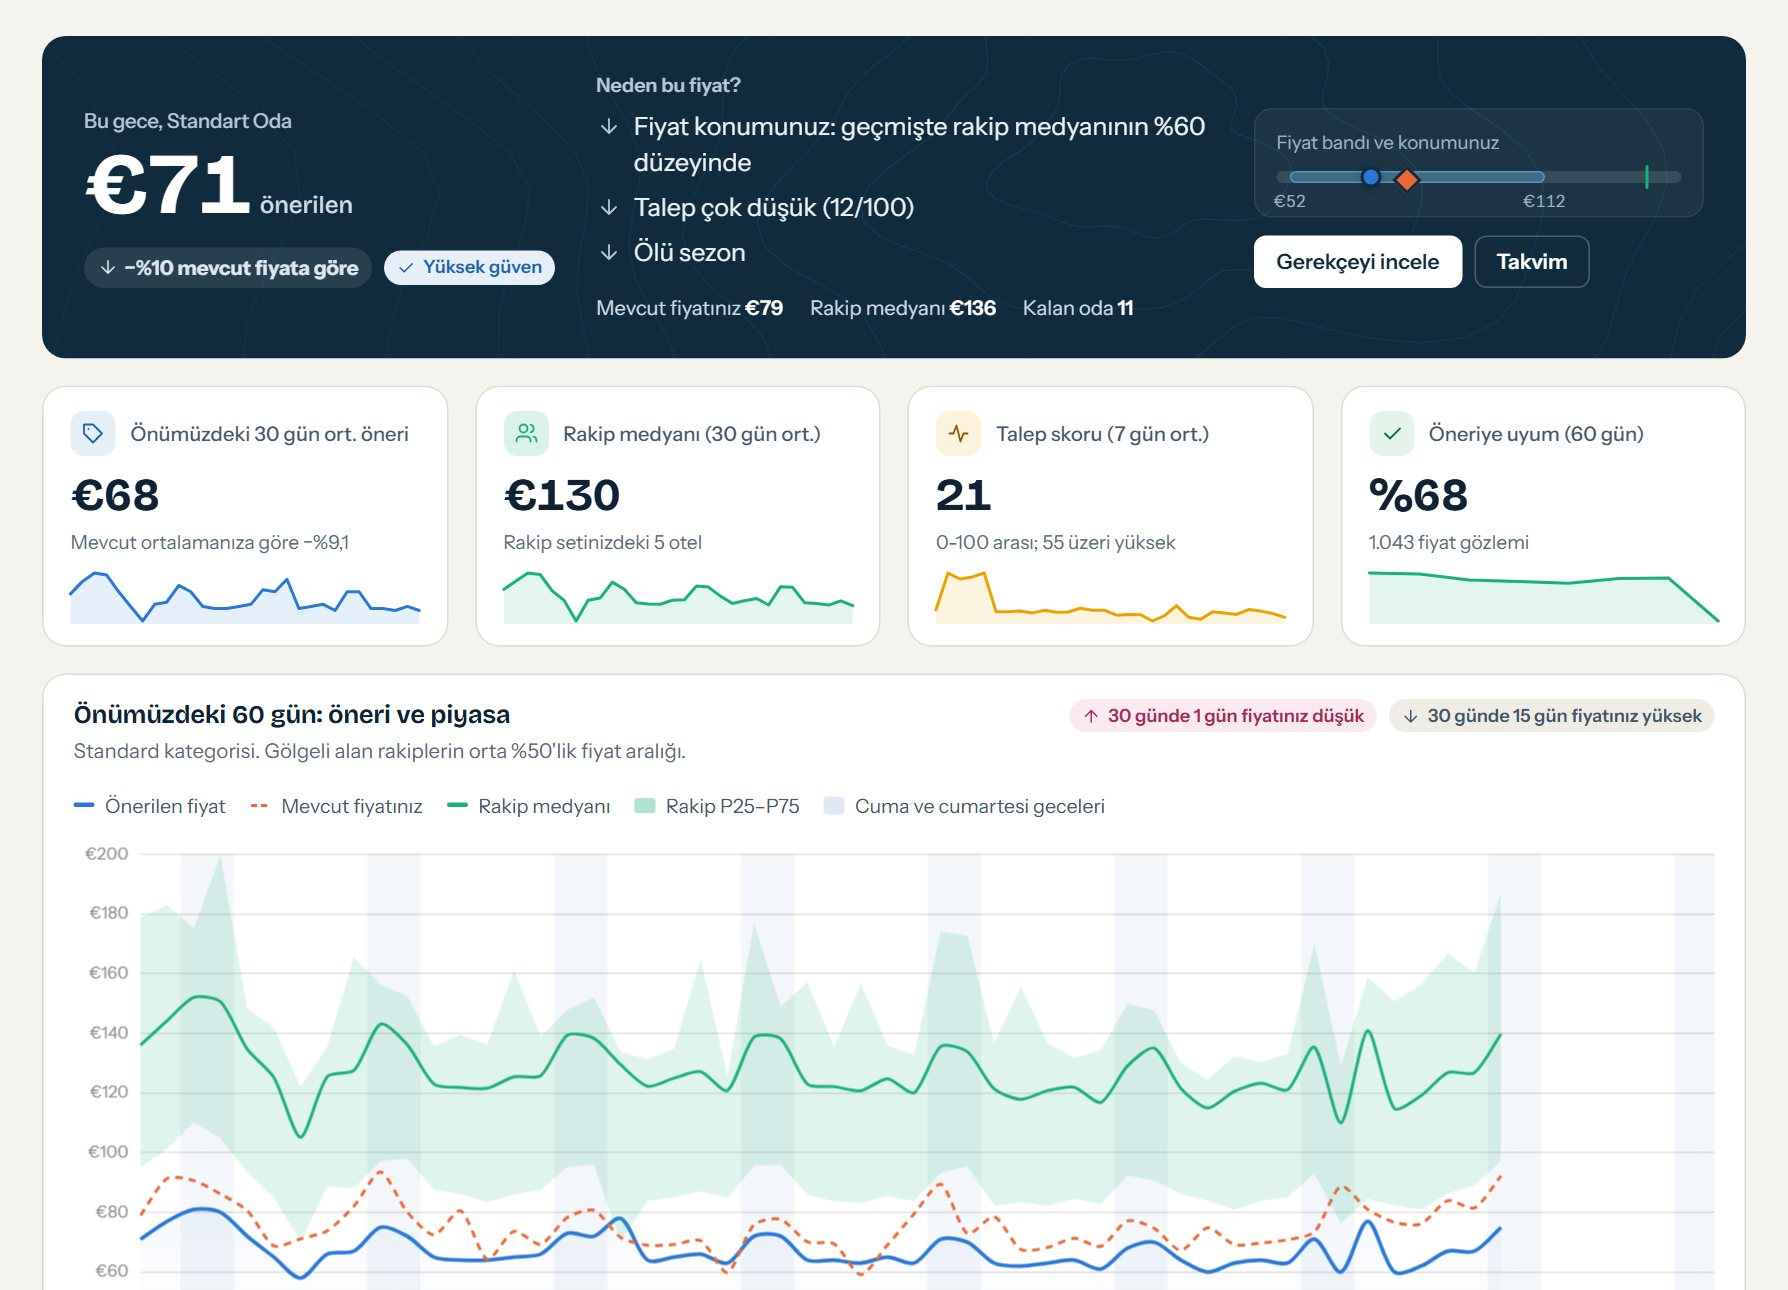
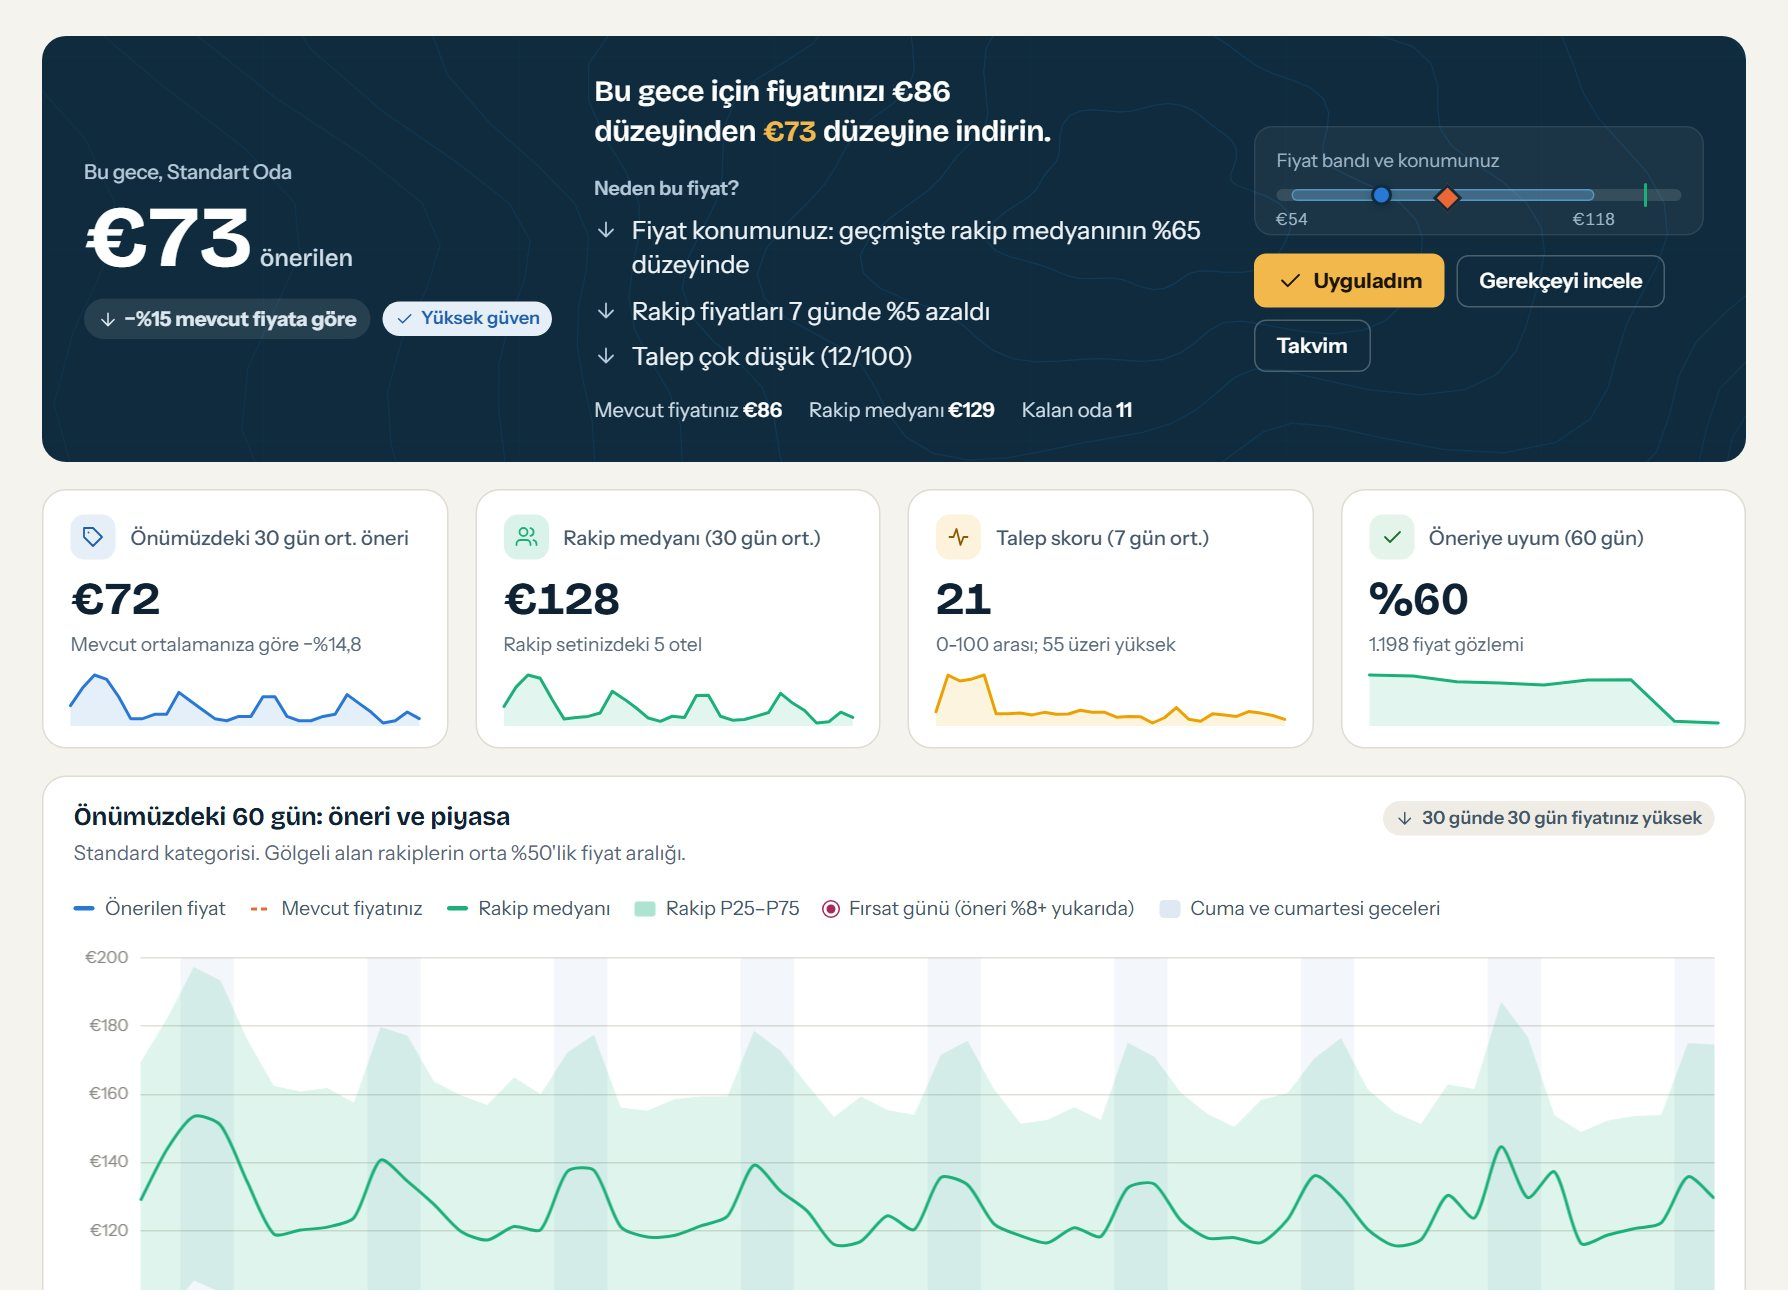
ui(panel): net eylem cümlesi, fırsat günleri, eşik çizgileri, sayfa geçişleri
- Kahraman alan artık önce ne yapılacağını söylüyor (fiyatı indirin /
  yükseltin / koruyun) ve Uyguladım düğmesi orada.
- Fiyat grafiğinde fırsat günleri begonvil noktayla, talep grafiklerinde
  'yüksek talep' eşiği çizgiyle işaretli.
- Sayfalar arası yumuşak geçiş (View Transitions): menü yerinde kalır,
  etkin öğe yeni yerine kayar; şelale ve çubuklar sırayla uzar.
- Yeni E2E testleri: sade/ayrıntılı görünüm ve tanıtım formu akışı.

diff --git a/app/templates/hotel/dashboard.html b/app/templates/hotel/dashboard.html
@@ -21,6 +21,9 @@
     </div>
   </div>
   <div>
+    {% if t.own and t.change is not none %}
+    <p class="hero-do">{% if t.change <= -2 %}Bu gece için fiyatınızı {{ t.own|eur }} düzeyinden <b>{{ t.suggested|eur }}</b> düzeyine indirin.{% elif t.change >= 2 %}Bu gece için fiyatınızı {{ t.own|eur }} düzeyinden <b>{{ t.suggested|eur }}</b> düzeyine yükseltin.{% else %}Fiyatınız yerinde. Bu gece için <b>{{ t.own|eur }}</b> düzeyini koruyun.{% endif %}</p>
+    {% endif %}
     <p class="why-lead">Neden bu fiyat?</p>
     <ul class="drivers">{% for d in rationale_drivers(t.rationale) %}<li class="{{ d.dir }}">{{ ui.icon({'up': 'up', 'down': 'down'}.get(d.dir, 'activity')) }}<span>{{ d.text }}</span></li>{% endfor %}</ul>
     <div class="meta">
@@ -34,7 +37,7 @@
       <div class="lbl"><span>Fiyat bandı ve konumunuz</span></div>
       {{ ui.range_bar(t.floor, t.ceiling, t.suggested, t.own, t.median) }}
     </div>
-    <div class="hero-actions"><a class="btn" href="/panel/oneriler/{{ t.id }}">Gerekçeyi incele</a><a class="btn ghost-light" href="/panel/oneriler?gorunum=takvim">Takvim</a></div>
+    <div class="hero-actions">{% if t.action == 'applied' %}<span class="badge good">{{ ui.icon('check') }}Uygulandı</span>{% else %}<form method="post" action="/panel/oneriler/{{ t.id }}/aksiyon" class="inline">{{ ui.csrf() }}<input type="hidden" name="action" value="applied"><input type="hidden" name="next" value="/panel"><button class="btn apply" type="submit" title="Fiyatı kendi sistemimde uyguladım">{{ ui.icon('check') }}Uyguladım</button></form>{% endif %}<a class="btn ghost-light" href="/panel/oneriler/{{ t.id }}">Gerekçeyi incele</a><a class="btn ghost-light" href="/panel/oneriler?gorunum=takvim">Takvim</a></div>
   </div>
 </section>
 {% else %}
@@ -67,6 +70,7 @@
       <span style="color:var(--series-2)"><i class="dash" style="background:var(--series-2)"></i><span class="ink-2">Mevcut fiyatınız</span></span>
       <span><i style="background:var(--series-3)"></i>Rakip medyanı</span>
       <span><i class="band" style="background:var(--series-3)"></i>Rakip P25–P75</span>
+      <span><i class="lg-opp"></i>Fırsat günü (öneri %8+ yukarıda)</span>
       <span class="wk"><i></i>Cuma ve cumartesi geceleri</span>
     </div>
     {{ ui.chart("price", data.chart | combine({"suggestedFill": true}), "dash-price", "tall", "Önerilen fiyat, mevcut fiyat ve rakip medyanı") }}
@@ -98,7 +102,7 @@
   </div>
     <div class="panel detail-only">
       <div class="panel-head"><div><h2>Talep, 60 gün</h2><p>Uçuş arama, etkinlik ve tatil bileşimi</p></div></div>
-      <div class="panel-body">{{ ui.chart("bar", {"labels": data.chart.labels, "unit": "score", "sequential": true, "max": 100, "series": [{"label": "Talep skoru", "data": data.chart.demand}]}, "dash-demand", "short", "Talep skoru") }}</div>
+      <div class="panel-body">{{ ui.chart("bar", {"labels": data.chart.labels, "unit": "score", "sequential": true, "max": 100, "threshold": {"value": 55, "label": "Yüksek talep eşiği (55)"}, "series": [{"label": "Talep skoru", "data": data.chart.demand}]}, "dash-demand", "short", "Talep skoru") }}</div>
     </div>
   </div>
   <div class="stack">

diff --git a/app/static/css/app.css b/app/static/css/app.css
@@ -868,3 +868,34 @@ body[data-view="sade"] .simple-wide { grid-template-columns: minmax(0, 1fr); }
 :root[data-theme="dark"] .error-page .code { color: var(--brand); }
 .hero-rec .why-full { font-size: .86rem; color: #b4c8d8; line-height: 1.5; margin: 12px 0 0; max-width: 70ch; }
 .table-wrap { position: relative; } /* içindeki .sr-only öğeler sayfayı taşırmasın */
+
+/* kahraman: ne yapmalıyım? tek cümle, sonra neden */
+.hero-rec .hero-do { font: 600 1.22rem/1.35 var(--font-display); color: #fff; margin: 0 0 16px; letter-spacing: -.01em; max-width: 34ch; text-wrap: balance; }
+.hero-rec .hero-do b { color: var(--sun); font-weight: 700; }
+.hero-rec .hero-actions { flex-wrap: wrap; align-items: center; }
+.hero-rec .btn.apply { background: var(--sun); border-color: var(--sun); color: #1b1505; font-weight: 700; }
+.hero-rec .btn.apply:hover { background: #ffd070; border-color: #ffd070; color: #1b1505; }
+.legend i.lg-opp { width: 10px; height: 10px; border-radius: 50%; background: var(--bougain); border: 2px solid var(--surface); box-shadow: 0 0 0 1px var(--bougain); }
+
+/* sayfalar arası geçiş: içerik yumuşakça değişir, menü yerinde kalır, etkin öğe yeni yerine kayar */
+@media (prefers-reduced-motion: no-preference) {
+  @view-transition { navigation: auto; }
+  ::view-transition-old(root), ::view-transition-new(root) { animation-duration: .2s; animation-timing-function: ease-out; }
+  .sidebar { view-transition-name: or-sidebar; }
+  .nav a.active { view-transition-name: or-nav-active; }
+  ::view-transition-group(or-nav-active) { animation-duration: .32s; animation-timing-function: cubic-bezier(.22, 1, .36, 1); }
+  ::view-transition-old(or-sidebar), ::view-transition-new(or-sidebar) { animation: none; }
+  /* şelale: adımlar sırayla uzar (fiyatın nasıl oluştuğunu anlatır) */
+  .js-motion .waterfall .seg-bar { animation: wf-grow .7s cubic-bezier(.16, 1, .3, 1) both; transform-origin: left; }
+  .js-motion .waterfall .step:nth-child(2) .seg-bar { animation-delay: .08s; } .js-motion .waterfall .step:nth-child(3) .seg-bar { animation-delay: .16s; }
+  .js-motion .waterfall .step:nth-child(4) .seg-bar { animation-delay: .24s; } .js-motion .waterfall .step:nth-child(5) .seg-bar { animation-delay: .32s; }
+  .js-motion .waterfall .step:nth-child(n+6) .seg-bar { animation-delay: .4s; }
+  @keyframes wf-grow { from { transform: scaleX(0); opacity: .3; } }
+  .js-motion .bar-fill { animation: wf-grow .8s cubic-bezier(.16, 1, .3, 1) both; transform-origin: left; }
+}
+.heat-grid .c:not(.blank), .cal .day:not(.blank) { transition: transform .12s, box-shadow .12s; }
+.heat-grid .c:not(.blank):hover { transform: scale(1.18); box-shadow: 0 4px 10px rgba(15, 34, 51, .25); z-index: 1; }
+.cal .day:not(.blank):hover { transform: translateY(-2px); box-shadow: 0 8px 18px -8px rgba(15, 34, 51, .35); }
+table.data tbody tr { transition: background .12s; }
+.nav a .ico { transition: transform .2s cubic-bezier(.22, 1, .36, 1); }
+.nav a:hover .ico { transform: translateX(2px); }

diff --git a/app/static/js/charts.js b/app/static/js/charts.js
@@ -97,6 +97,12 @@
           fill: d.suggestedFill ? "origin" : false,
           backgroundColor: function (c) { return vgrad(c.chart, s1, .18, 0); } }
       ];
+      // Fırsat günleri: önerinin mevcut fiyatın %8+ üstünde olduğu geceler çizgi üzerinde begonvil noktayla işaretlenir
+      var opp = (d.suggested || []).map(function (v, i) { var own = d.own ? d.own[i] : null; return v != null && own ? (v / own - 1) >= 0.08 : false; });
+      var sugDs = ds[4], bg = css("--bougain") || s1;
+      sugDs.pointRadius = opp.map(function (b) { return b ? 4.5 : 0; });
+      sugDs.pointBackgroundColor = opp.map(function (b) { return b ? bg : s1; });
+      sugDs.pointBorderColor = css("--surface"); sugDs.pointBorderWidth = 2;
       if (d.floor && d.showBounds) {
         ds.push({ label: "Taban", data: d.floor, borderColor: alpha(s1, .45), borderWidth: 1, pointRadius: 0, borderDash: [2, 3] });
         ds.push({ label: "Tavan", data: d.ceiling, borderColor: alpha(s1, .45), borderWidth: 1, pointRadius: 0, borderDash: [2, 3] });
@@ -197,6 +203,19 @@
     afterDatasetsDraw: function (chart, args, opts) {
       var ctx = chart.ctx, area = chart.chartArea, x = chart.scales.x;
       if (!area || !x) return;
+      // Eşik çizgisi (ör. "yüksek talep" 55): değerin ne anlama geldiğini grafiğin üstünde söyler
+      if (opts && opts.threshold && chart.scales.y && chart.options.indexAxis !== "y") {
+        var ty = chart.scales.y.getPixelForValue(opts.threshold.value);
+        if (ty >= area.top && ty <= area.bottom) {
+          ctx.save();
+          ctx.strokeStyle = css("--ink-2"); ctx.globalAlpha = .7; ctx.lineWidth = 1; ctx.setLineDash([4, 4]);
+          ctx.beginPath(); ctx.moveTo(area.left, ty); ctx.lineTo(area.right, ty); ctx.stroke();
+          ctx.setLineDash([]); ctx.globalAlpha = 1; ctx.fillStyle = css("--ink-2");
+          ctx.font = "600 11px " + (css("--font-ui") || "sans-serif"); ctx.textAlign = "right";
+          ctx.fillText(opts.threshold.label, area.right - 4, ty - 5);
+          ctx.restore();
+        }
+      }
       if (opts && opts.todayIndex !== undefined && opts.todayIndex !== null && chart.config.type !== "scatter") {
         var tx = x.getPixelForValue(opts.todayIndex);
         if (tx >= area.left && tx <= area.right) {
@@ -242,7 +261,7 @@
         var data = JSON.parse(src.textContent);
         var cfg = builders[kind](data);
         cfg.options.plugins = cfg.options.plugins || {};
-        cfg.options.plugins.orGuides = { todayIndex: data.todayIndex };
+        cfg.options.plugins.orGuides = { todayIndex: data.todayIndex, threshold: data.threshold };
         instances.push(new Chart(cv.getContext("2d"), cfg));
       } catch (e) {
         if (window.console) console.error("Grafik çizilemedi", kind, e);

diff --git a/app/templates/hotel/demand.html b/app/templates/hotel/demand.html
@@ -14,7 +14,7 @@
   <div class="panel-head"><div><h2>Talep skoru: son 30 gün ve önümüzdeki 60 gün</h2><p>Çubuk yüksekliği toplam skoru, renkler bileşenlerin katkısını gösterir.</p></div></div>
   <div class="panel-body">
     <div class="legend"><span><i style="background:var(--series-1);height:10px"></i>Uçuş arama</span><span><i style="background:var(--series-2);height:10px"></i>Etkinlik</span><span><i style="background:var(--series-3);height:10px"></i>Tatil</span></div>
-    {{ ui.chart("bar", {"labels": labels, "unit": "score", "stacked": true, "max": 100, "todayIndex": 30, "series": [
+    {{ ui.chart("bar", {"labels": labels, "unit": "score", "stacked": true, "max": 100, "todayIndex": 30, "threshold": {"value": 55, "label": "Yüksek talep eşiği (55)"}, "series": [
         {"label": "Uçuş arama", "data": fl, "color": "series-1"},
         {"label": "Etkinlik", "data": ev, "color": "series-2"},
         {"label": "Tatil", "data": ho, "color": "series-3"}]}, "demand-stack", "tall", "Talep skoru bileşenleri", true) }}

diff --git a/app/templates/base.html b/app/templates/base.html
@@ -13,7 +13,7 @@
   <link rel="preload" href="/static/fonts/instrument-sans-latin-wght-normal.woff2" as="font" type="font/woff2" crossorigin>
   <link rel="preload" href="/static/fonts/instrument-sans-latin-ext-wght-normal.woff2" as="font" type="font/woff2" crossorigin>
   <link rel="preload" href="/static/fonts/bricolage-grotesque-latin-wght-normal.woff2" as="font" type="font/woff2" crossorigin>
-  <link rel="stylesheet" href="/static/css/app.css?v=8">
+  <link rel="stylesheet" href="/static/css/app.css?v=9">
   <link rel="icon" href="/static/img/favicon.svg" type="image/svg+xml">
   {% block head %}{% endblock %}
 </head>

diff --git a/app/templates/public/landing.html b/app/templates/public/landing.html
@@ -100,7 +100,7 @@
           <li>{{ ui.icon('check') }}Listeyi siz yönetirsiniz: ekleyin, çıkarın, onaylayın</li>
         </ul>
       </div>
-      <div class="feature-art">{{ shot('pazar.jpg', 'Pazar fiyat ızgarası: rakip otellerin gün gün fiyatları ve sizin fiyatınıza göre farkları', 1704, 601, 'pazar') }}</div>
+      <div class="feature-art">{{ shot('pazar.jpg', 'Pazar fiyat ızgarası: rakip otellerin gün gün fiyatları ve sizin fiyatınıza göre farkları', 1704, 684, 'pazar') }}</div>
     </div>
 
     <div class="feature">

diff --git a/app/templates/partials/app_layout.html b/app/templates/partials/app_layout.html
@@ -76,5 +76,5 @@
 {% endblock %}
 {% block scripts %}
 <script src="/static/vendor/chart.umd.min.js?v=4" defer></script>
-<script src="/static/js/charts.js?v=4" defer></script>
+<script src="/static/js/charts.js?v=5" defer></script>
 {% endblock %}

diff --git a/tests/e2e/test_browser.py b/tests/e2e/test_browser.py
@@ -101,7 +101,7 @@ def charts_drawn(page) -> int:
 
 def test_landing_and_pricing(page):
     page.go("/")
-    assert "gerekçesiyle" in page.page.inner_text("h1")
+    assert "Bilin" in page.page.inner_text("h1")
     page.page.click("text=Paketler")
     page.page.wait_for_load_state("networkidle")
     assert page.page.locator(".plan").count() >= 3
@@ -225,3 +225,42 @@ def test_admin_job_and_impersonation(page):
     for path in ("/admin/api-maliyet", "/admin/model", "/admin/talep", "/admin/oteller/1"):
         assert page.go(path).status == 200
     assert not page.errors, page.errors
+
+
+def test_dashboard_simple_and_detailed_view(browser, server):
+    """Sade görünüm ayrıntı bölümlerini gizler, tercih sayfalar arasında korunur; ayrıntılıya dönünce grafikler çizilir."""
+    ctx = browser.new_context(viewport={"width": 1280, "height": 900})
+    p = Page(ctx.new_page(), server)
+    p.login("otel@otelradar.local", "Demo1234!")
+    visible = lambda: p.page.evaluate("getComputedStyle(document.querySelector('.detail-only')).display !== 'none'")  # noqa: E731
+    assert visible()
+    p.page.click("[data-density='sade']")
+    assert not visible()
+    assert p.page.get_attribute("[data-density='sade']", "aria-pressed") == "true"
+    p.go("/panel")
+    assert not visible(), "tercih korunmalı"
+    p.page.click("[data-density='ayrinti']")
+    assert visible() and charts_drawn(p.page) >= 1
+    ctx.close()
+
+
+def test_landing_start_form_leads_to_registration(browser, server):
+    """Tanıtımdaki otel adı kutusu kayıt formuna taşır ve adı doldurur; ürün görüntüleri yüklenir, JS hatası olmaz."""
+    ctx = browser.new_context(viewport={"width": 1280, "height": 900})
+    page = ctx.new_page()
+    errors = []
+    page.on("pageerror", lambda e: errors.append(str(e)))
+    page.goto(server + "/")
+    assert page.locator(".scope svg").is_visible()
+    page.fill("#otel-ust", "Deniz Feneri Butik Otel")
+    page.click(".hero .start-form button")
+    page.wait_for_url("**/kayit?otel=*")
+    assert page.input_value("#hotel_name") == "Deniz Feneri Butik Otel"
+    page.goto(server + "/")
+    for y in range(0, 9000, 600):
+        page.evaluate(f"window.scrollTo(0, {y})")
+        page.wait_for_timeout(60)
+    page.wait_for_load_state("networkidle")
+    broken = page.evaluate("[...document.images].filter(i => i.complete && i.naturalWidth === 0).length")
+    assert broken == 0 and not errors
+    ctx.close()

diff --git a/scripts/ui_snapshots.py b/scripts/ui_snapshots.py
@@ -176,6 +176,10 @@ def main() -> int:
                             resp = page.goto(a.base + url)
                             page.wait_for_load_state("networkidle")
                             status = resp.status if resp else 0
+                        # tembel yüklenen görseller için sayfayı bir kez baştan sona kaydır
+                        page.evaluate("async () => { for (let y = 0; y < document.body.scrollHeight; y += 700) {"
+                                      " window.scrollTo(0, y); await new Promise(r => setTimeout(r, 40)); } window.scrollTo(0, 0); }")
+                        page.wait_for_load_state("networkidle")
                         page.wait_for_timeout(250)
                         res = page.evaluate(AUDIT_JS)
                         fname = f"{group}-{name}-{width}-{theme}.jpg"
